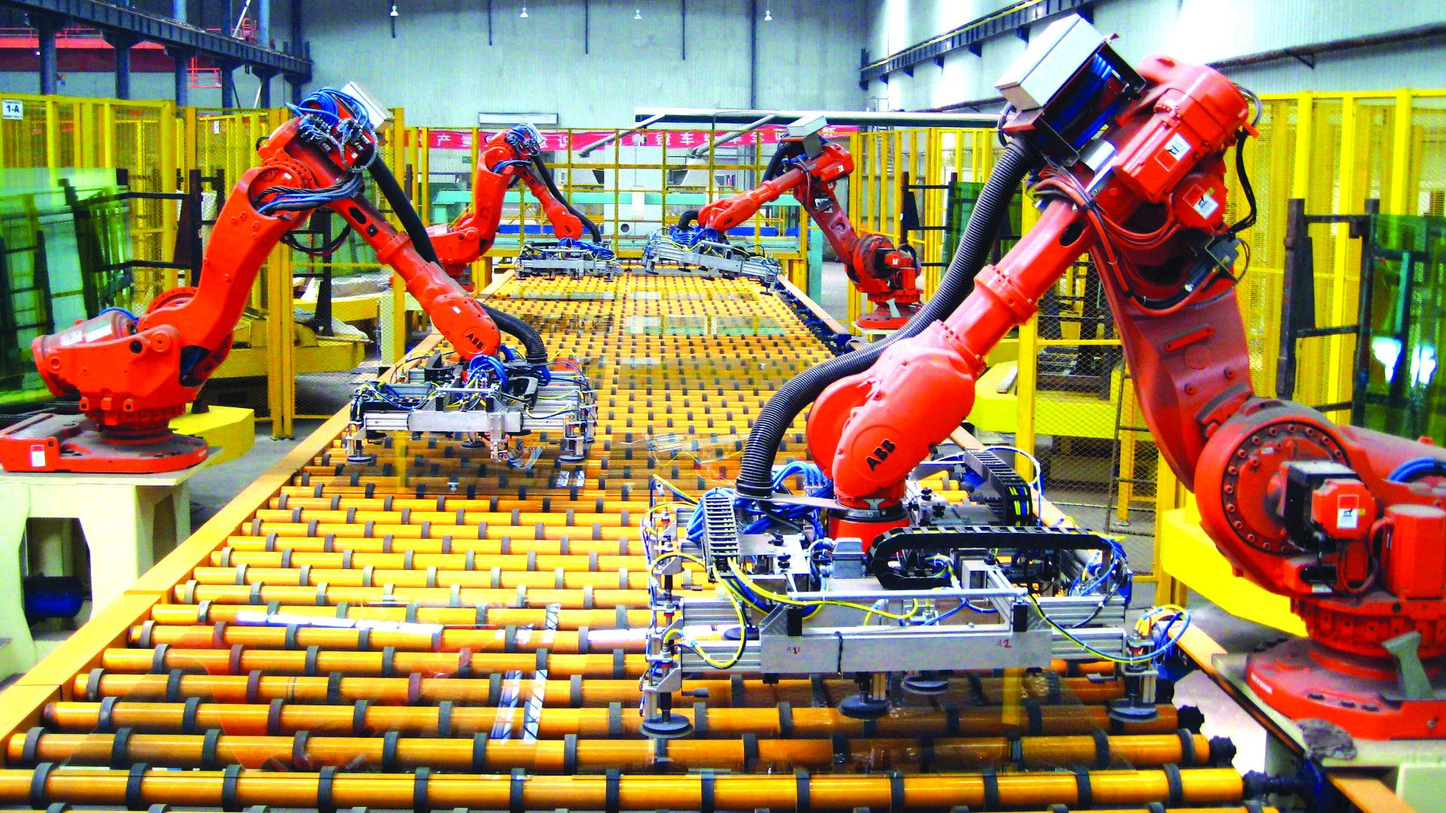
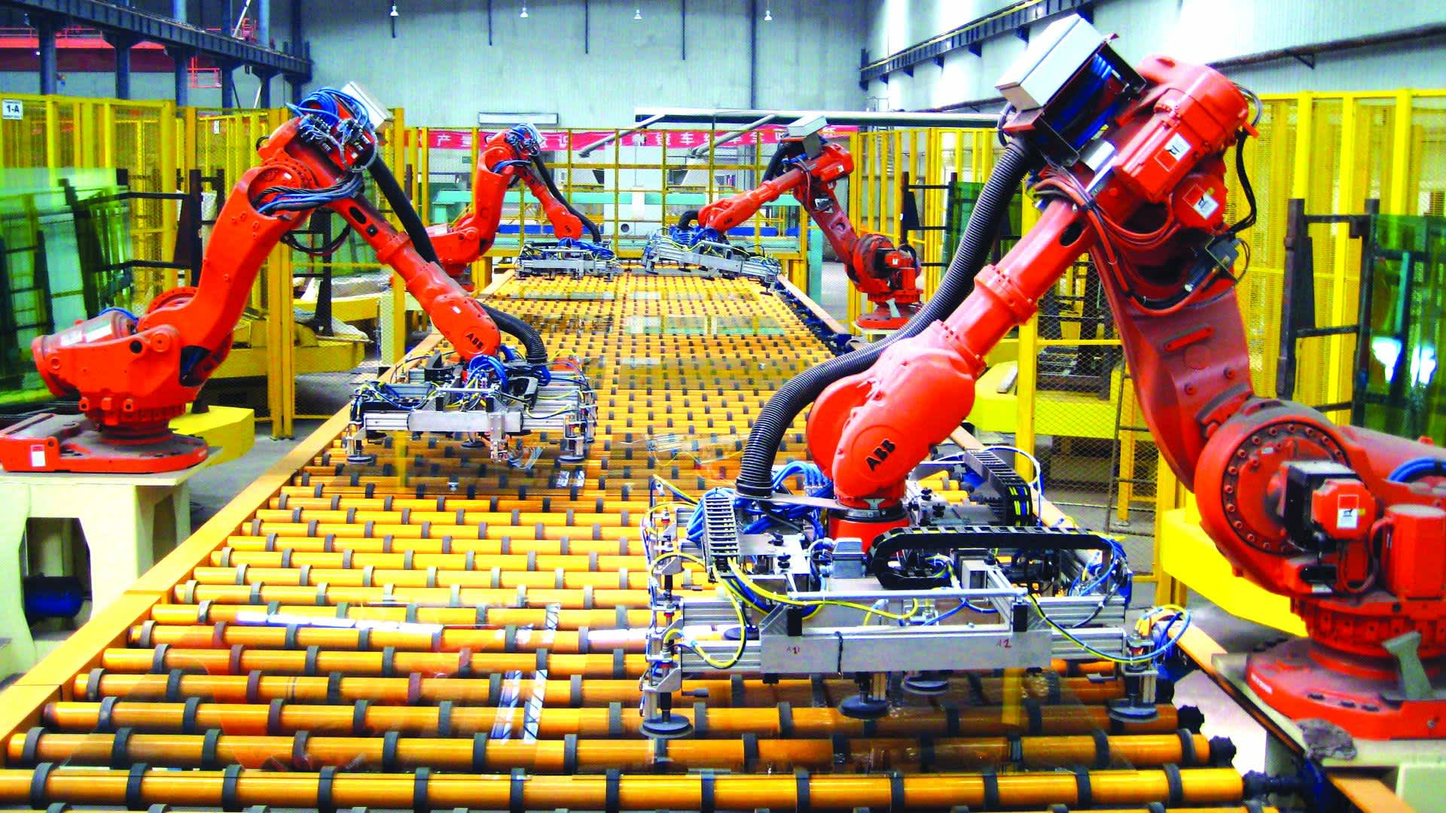
Update hero images

diff --git a/README.md b/README.md
@@ -1,6 +1,6 @@
 # VIMA Automation
 
-![Screenshot](./src/assets/index.png)
+![Screenshot](./src/assets/index.jpg)
 
 ## Descripción del Proyecto
 
